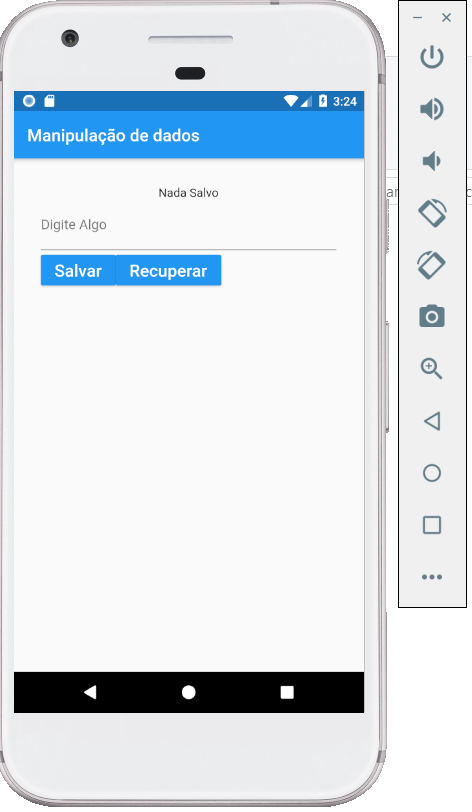
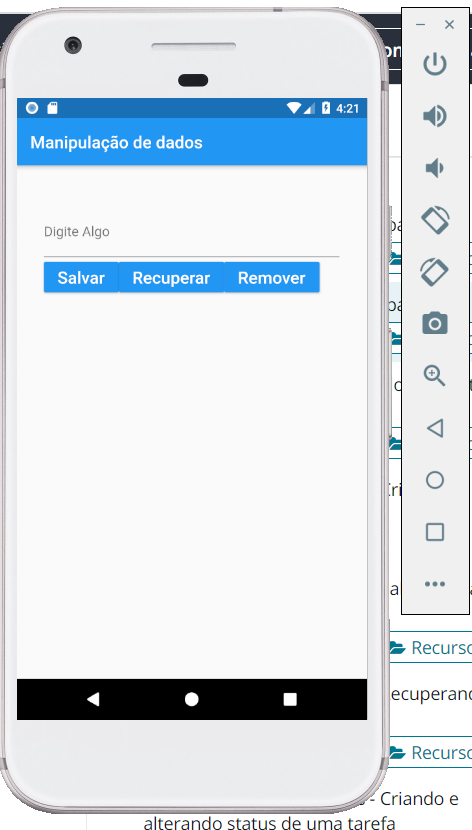
shared Prefereces

diff --git a/lib/Home.dart b/lib/Home.dart
@@ -1,4 +1,5 @@
 import 'package:flutter/material.dart';
+import 'package:shared_preferences/shared_preferences.dart';
 
 class Home extends StatefulWidget {
   @override
@@ -6,13 +7,34 @@ class Home extends StatefulWidget {
 }
 
 class _HomeState extends State<Home> {
+  
+  String _textoSalvo = "Nada Salvo";
   TextEditingController _controllerCampo = TextEditingController();
-
-  _salvar() {
+  
+  _salvar() async {
+    
+    String valorDigitado = _controllerCampo.text;
+    final prefs = await SharedPreferences.getInstance();
+    await prefs.setString("nome", valorDigitado);
+    print("Operação (salvar):$valorDigitado"); 
+    
     
   }
 
-  _recuperarDados() {
+  _recuperarDados() async {
+
+    final prefs = await SharedPreferences.getInstance();
+    setState(() {
+      _textoSalvo = prefs.getString("nome") ?? ("Sem valor");
+    });
+    print("Operação (recuperação):$_textoSalvo"); 
+  }
+
+  _remover() async {
+    
+    final prefs = await SharedPreferences.getInstance();
+    prefs.remove("nome");
+    print("Operação (remover)"); 
 
   }
 
@@ -26,7 +48,7 @@ class _HomeState extends State<Home> {
         padding: EdgeInsets.all(32),
         child: Column(
           children: <Widget>[
-            Text("Nada Salvo"),
+            Text(_textoSalvo),
             TextField(
               keyboardType: TextInputType.text,
               decoration: InputDecoration(
@@ -47,6 +69,12 @@ class _HomeState extends State<Home> {
                   child: Text("Recuperar", style: TextStyle(fontSize: 20)),
                   textColor: Colors.white,
                   onPressed: _recuperarDados,
+                ),
+                RaisedButton(
+                  color: Colors.blue,
+                  child: Text("Remover", style: TextStyle(fontSize: 20)),
+                  textColor: Colors.white,
+                  onPressed: _remover,
                 )
               ],
             )
